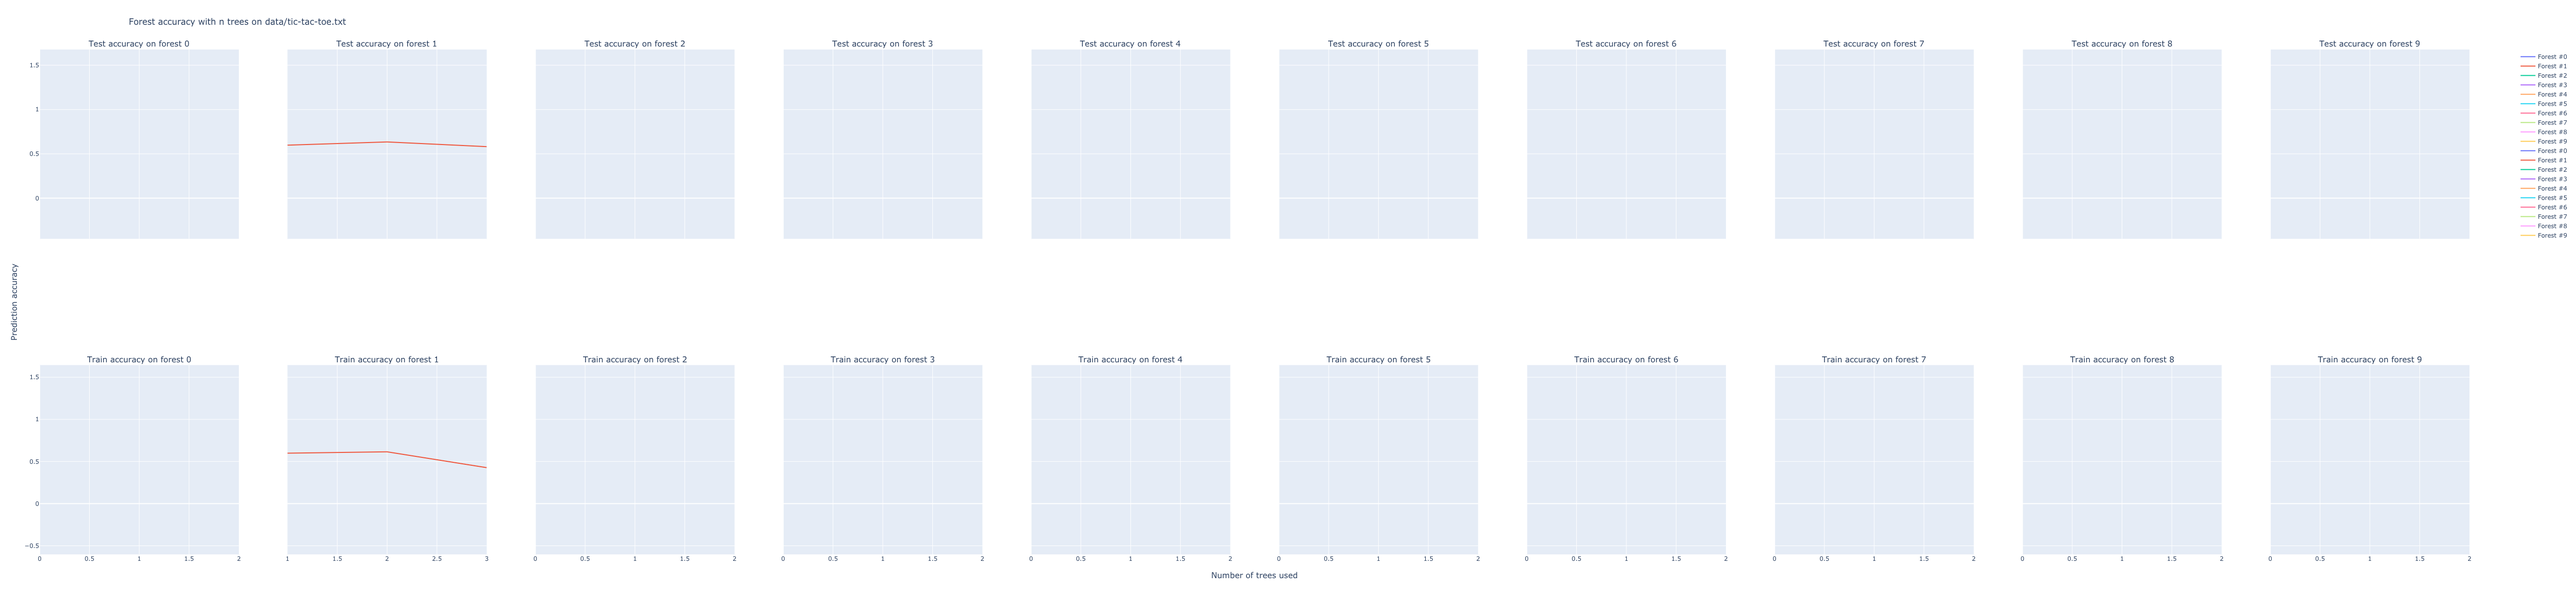
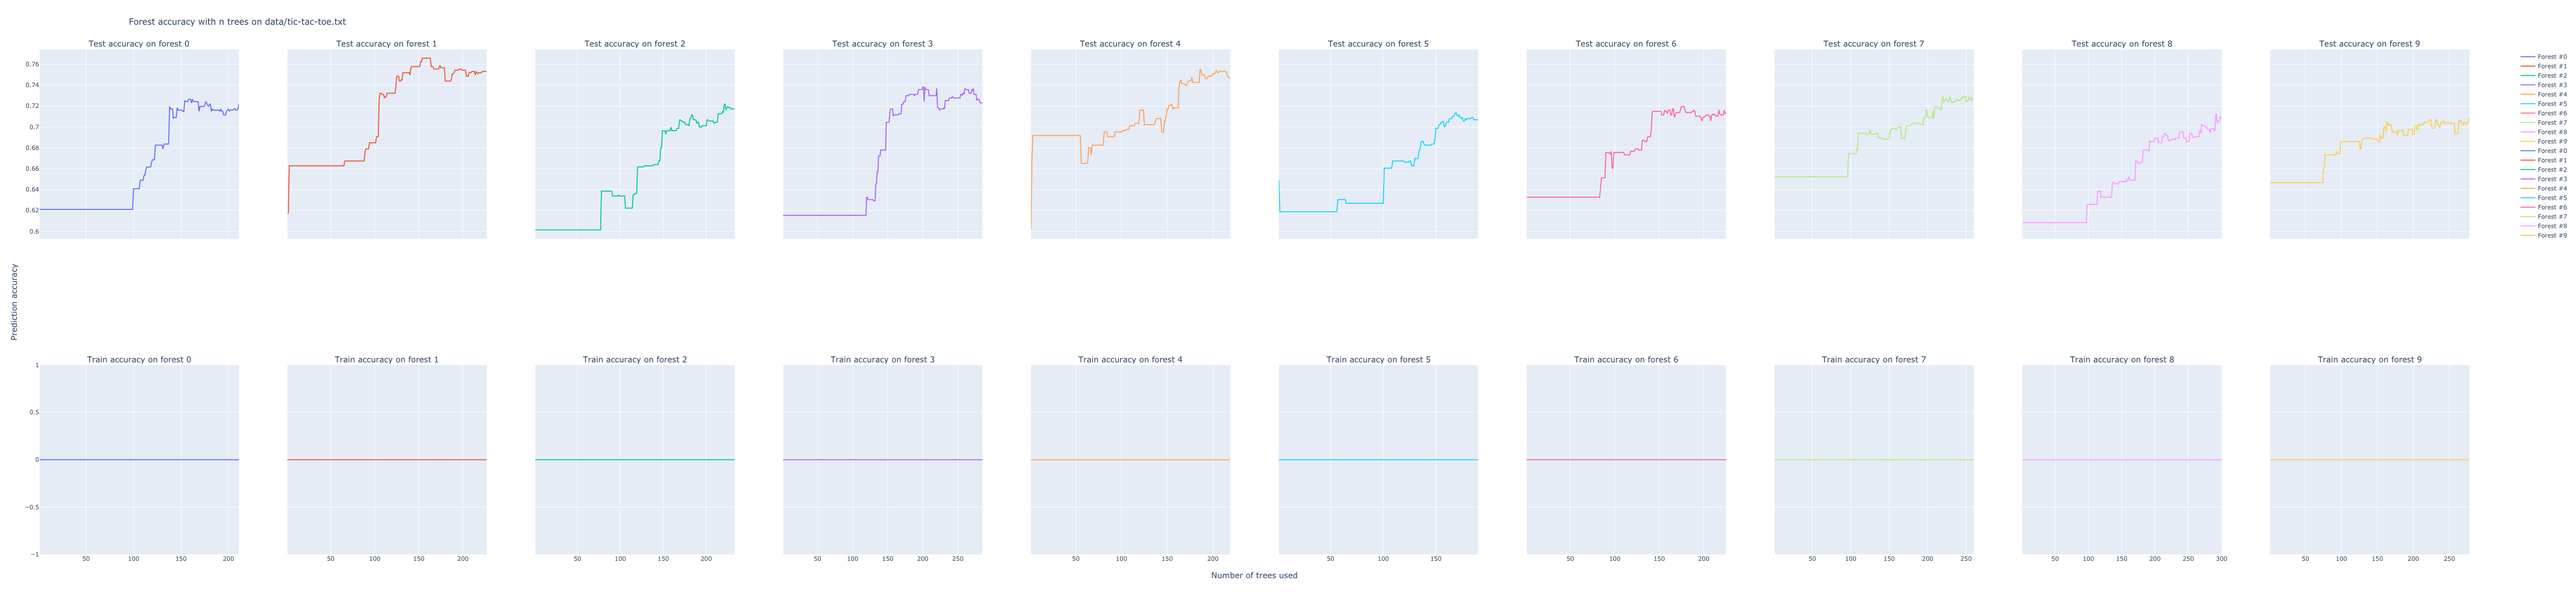
Rest of the previous commit

diff --git a/source/graphing/grapher.py b/source/graphing/grapher.py
@@ -2,6 +2,7 @@ import plotly.graph_objects as go
 from plotly.subplots import make_subplots
 from source.utils import learning_manager, file_manager
 import numpy as np
+import sys
 
 
 def plot(algos):
@@ -138,9 +139,11 @@ def plot(algos):
                 acc = []
 
                 for n in ns:
-                    print("n = " + str(n))
+                    sys.stdout.write("\rn = " + str(n))
+                    sys.stdout.flush()
                     accs = data.check_acc_with_n_trees(n)
                     acc.append(accs)
+                print()
 
                 layout = go.Layout(title='Forest accuracy with n trees',
                                    xaxis=dict(rangemode="tozero", title='Number of trees used'),
@@ -163,9 +166,11 @@ def plot(algos):
                 acc = []
 
                 for n in ns:
-                    print("n = " + str(n))
-                    accs = data.check_train_acc_with_n_trees(n)
+                    sys.stdout.write("\rn = " + str(n))
+                    sys.stdout.flush()
+                    accs = data.check_acc_with_n_trees(n, test=False)
                     acc.append(accs)
+                print()
 
                 acc = np.array(acc)
 

diff --git a/source/learning/optimised_dl8_forest.py b/source/learning/optimised_dl8_forest.py
@@ -46,14 +46,9 @@ class OptDL8Forest(learning.Learning):
     def read_from_file(self):
         super().read_from_file()
 
-    def check_acc_with_n_trees(self, n):
-        d = self.data_set.test_classes
-        pred = [f.predict_first_n_trees(self.data_set.test, n) for f in self.t]
-        return [sum([1 if pred[t][i] == d[i] else 0 for i in range(len(d))]) / len(d)
-                for t in range(len(self.t))]
-
-    def check_train_acc_with_n_trees(self, n):
-        d = self.data_set.train_classes
-        pred = [f.predict_first_n_trees(self.data_set.train, n) for f in self.t]
-        return [sum([1 if pred[t][i] == d[i] else 0 for i in range(len(d))]) / len(d)
+    def check_acc_with_n_trees(self, n, test=True):
+        y = self.data_set.test_classes if test else self.data_set.train_classes
+        X = self.data_set.test if test else self.data_set.train
+        pred = [f.predict_first_n_trees(X, n) for f in self.t]
+        return [sum([1 if pred[t][i] == y[i] else 0 for i in range(len(y))]) / len(y)
                 for t in range(len(self.t))]

diff --git a/source/utils/learning_manager.py b/source/utils/learning_manager.py
@@ -18,7 +18,7 @@ kwargs = {
     "CP-tree": {'max_depth': 4},
     "DL8": {'max_depth': 4},
     "DL8-forest": {'n_estimators': 10, 'max_depth': 3, 'attributes': "all"},
-    "OptDL8-forest": {'n_estimators': 3, 'max_depth': 3, 'method': "all", 'attributes': "progressive"},
+    "OptDL8-forest": {'n_estimators': 20, 'max_depth': 3, 'method': "all", 'attributes': "progressive"},
     "G-boosting": {'n_estimators': 100}
 }
 
